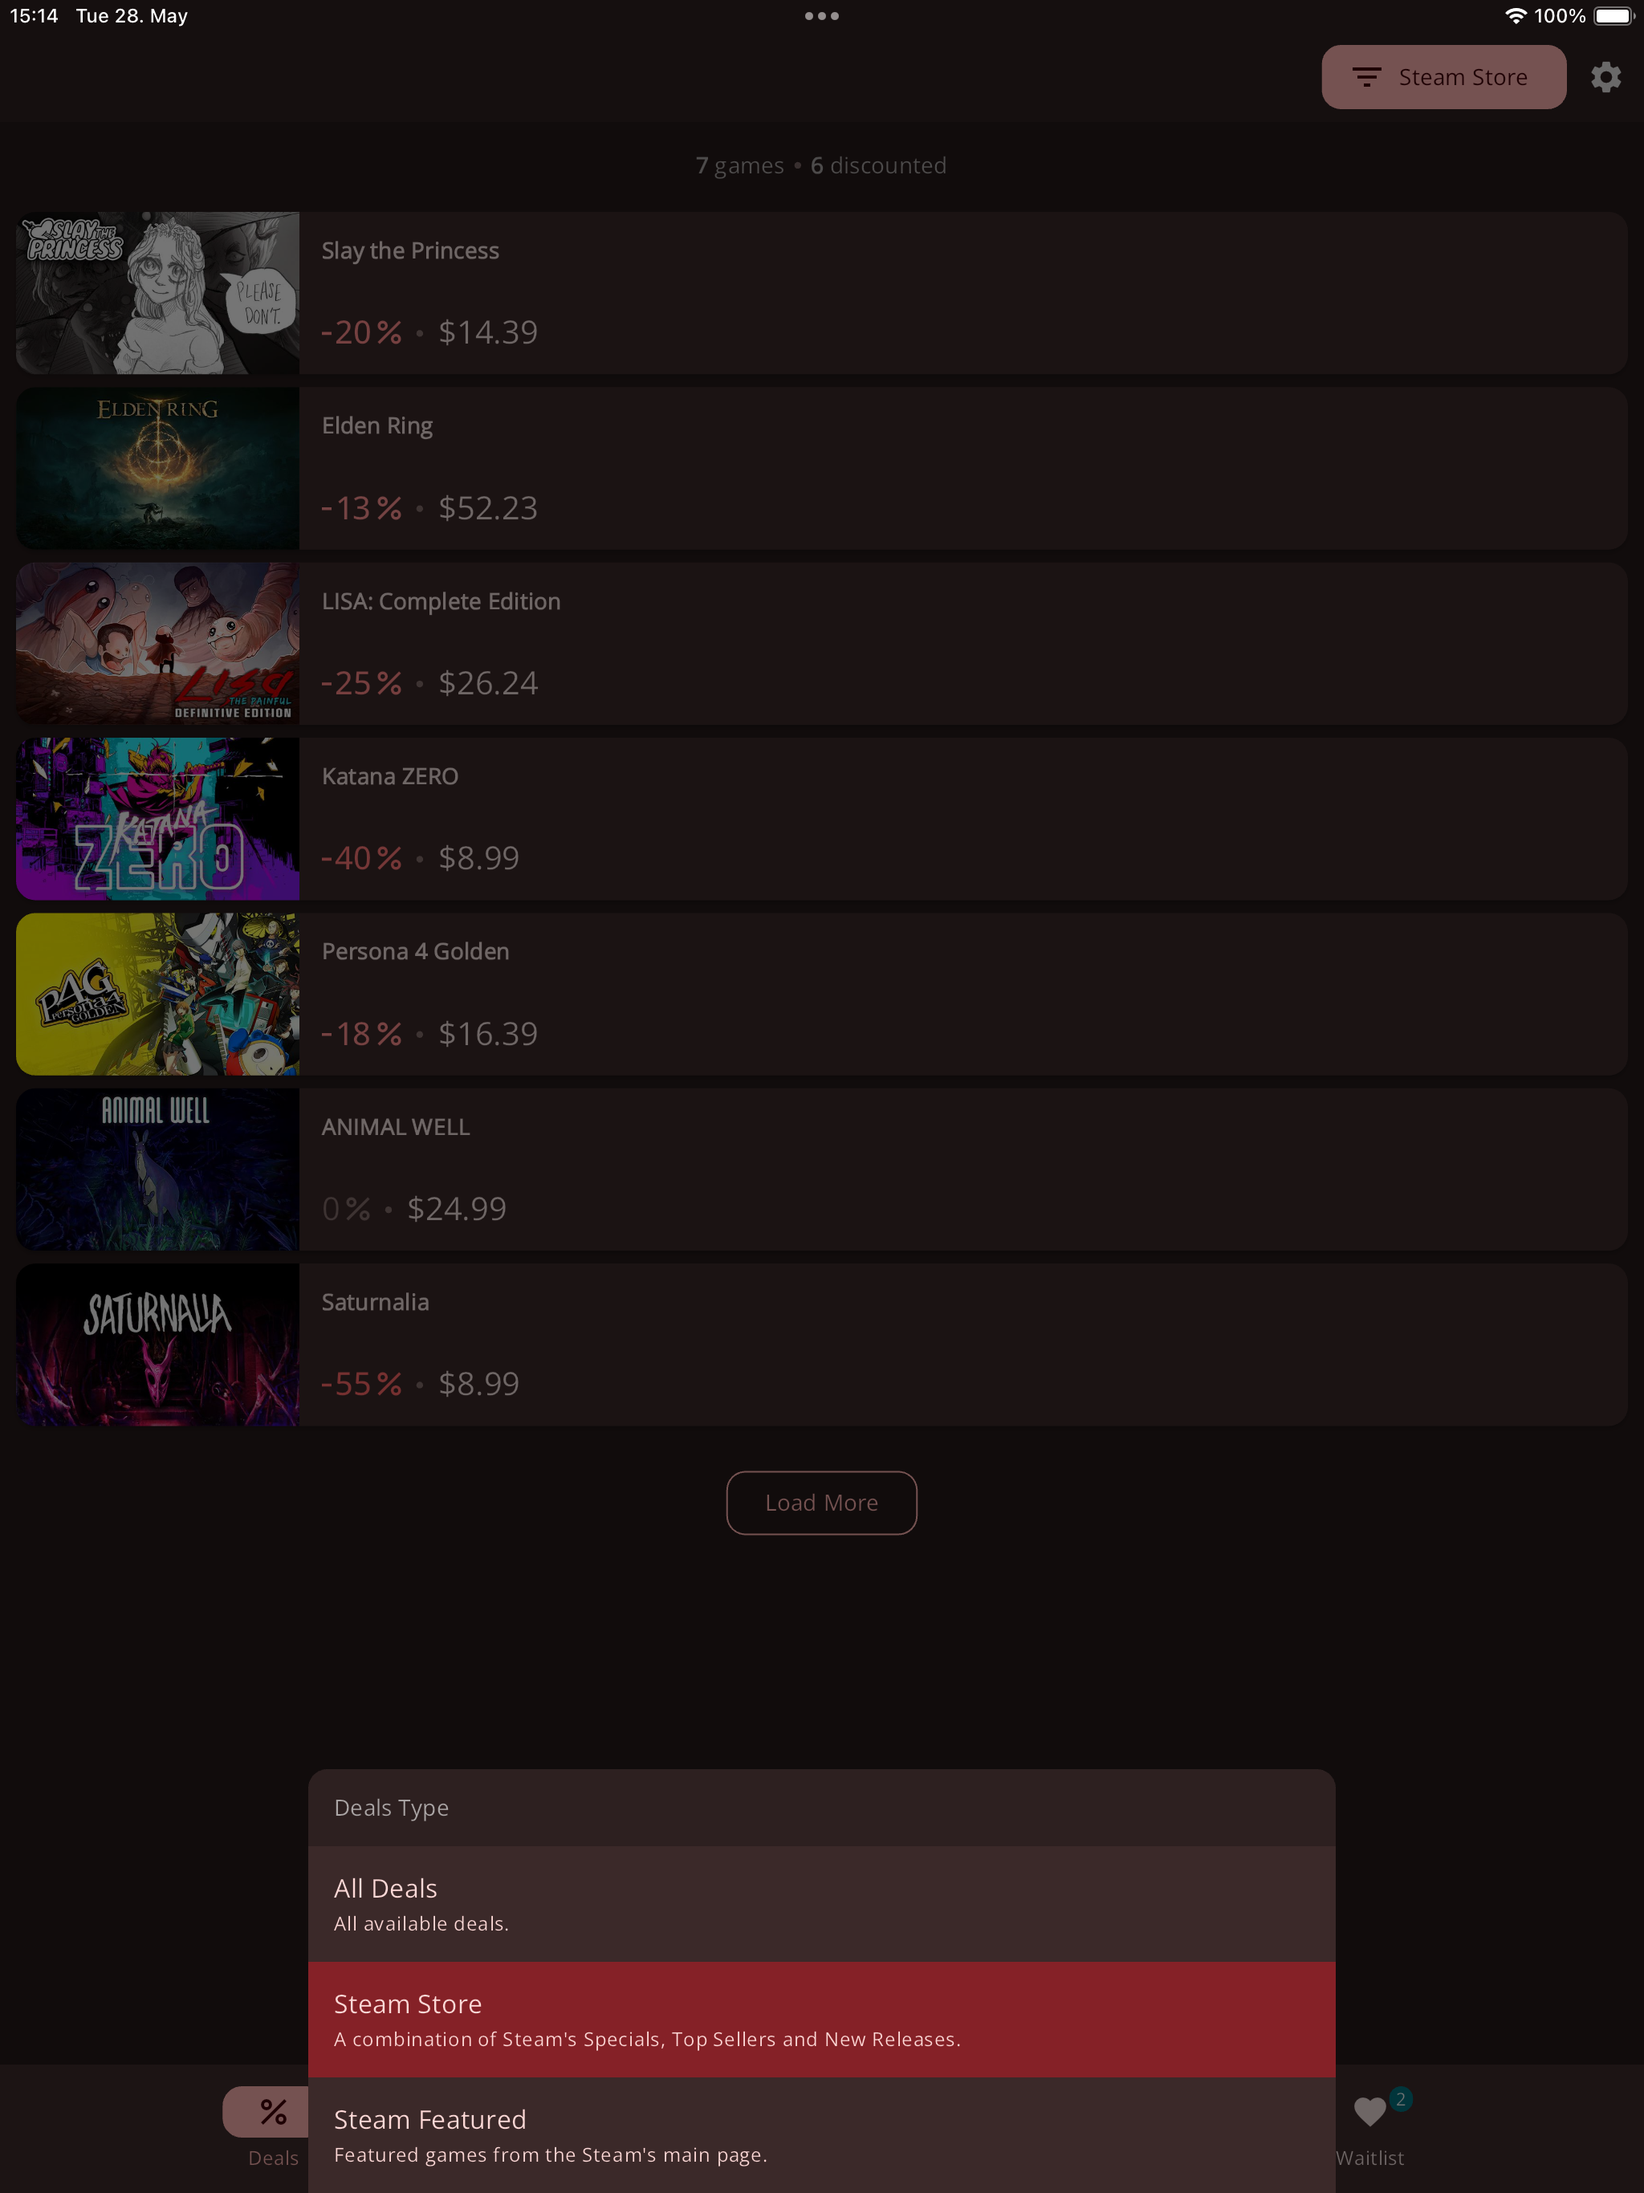
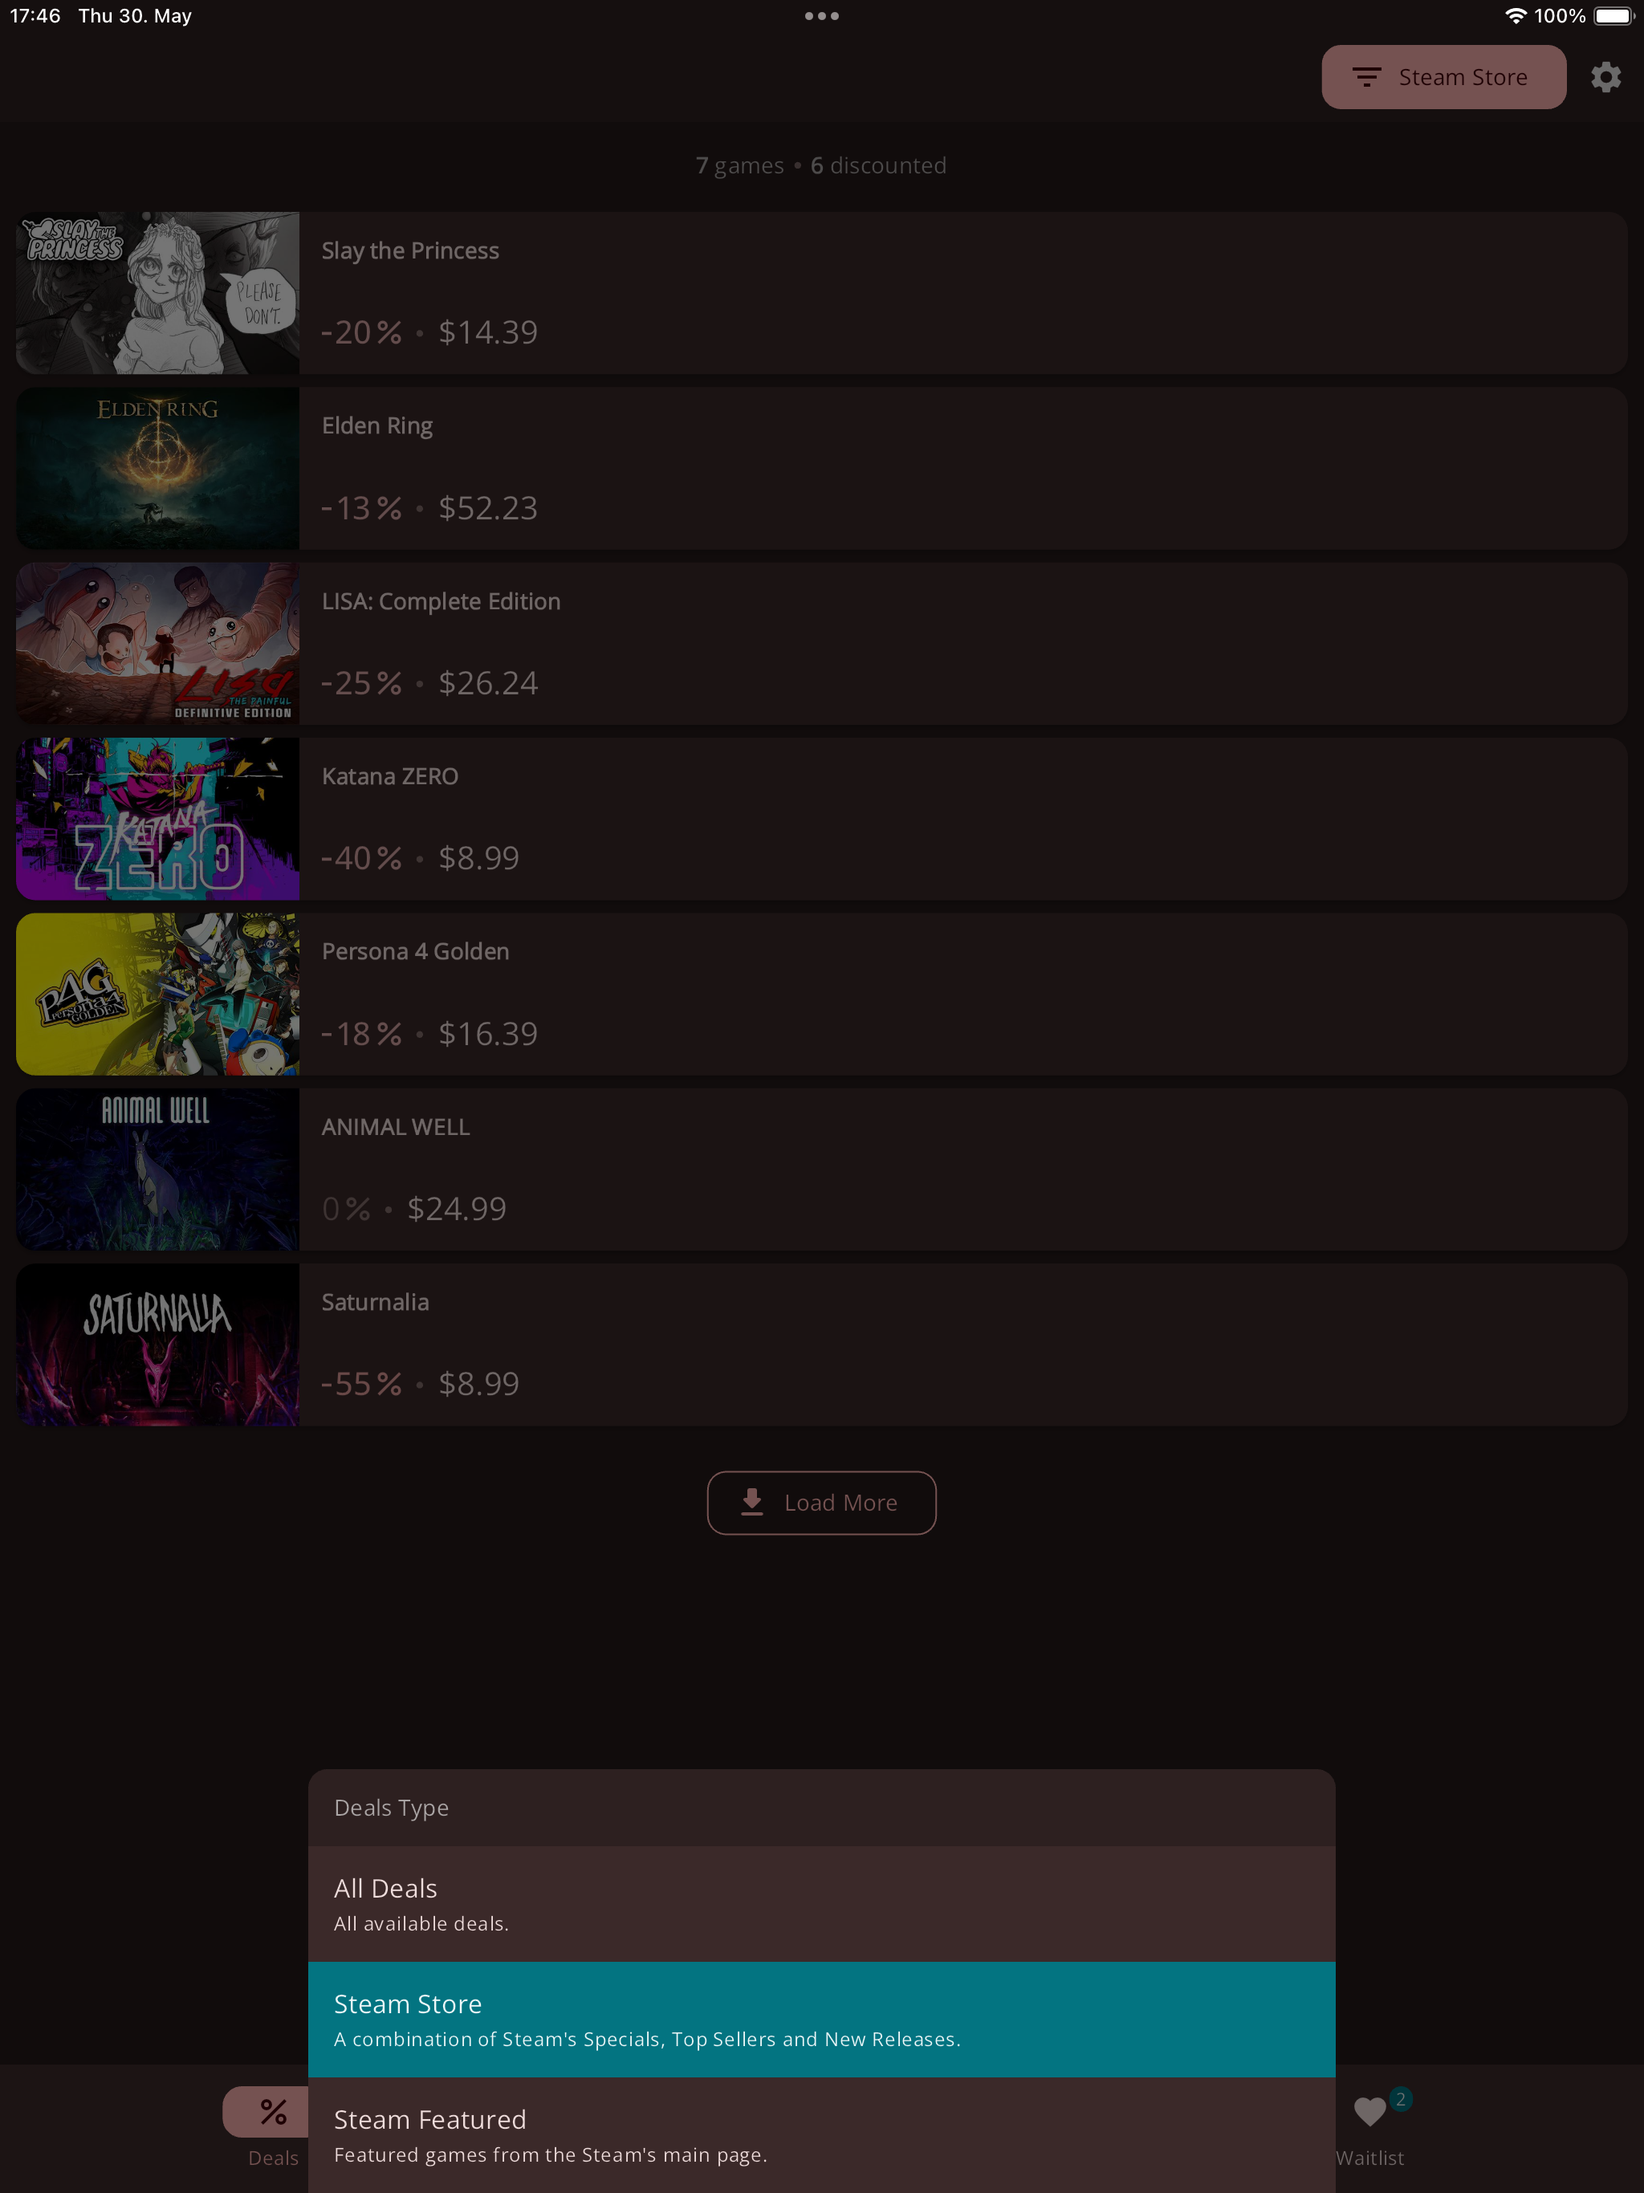
Update scheenshots

Changed region(s): [[0.1875, 0.8712, 0.8125, 0.9645], [0.0625, 0.0, 0.0938, 0.0311]]

diff --git a/test_driver/screenshot_test.dart b/test_driver/screenshot_test.dart
@@ -2,6 +2,12 @@ import 'package:emulators/emulators.dart';
 import 'package:flutter_driver/flutter_driver.dart';
 import 'package:test/test.dart';
 
+final List<String> testColorSchemes = [
+  'color_scheme_blue',
+  'color_scheme_sakura',
+  'color_scheme_gold'
+];
+
 void main() async {
   final FlutterDriver driver = await FlutterDriver.connect();
   final Emulators emulators = await Emulators.build();
@@ -26,13 +32,31 @@ void main() async {
     await screenshot.capture(identifier);
   }
 
-  test('Deals Page', () async {
+  toggleTheme(String theme) async {
+    await driver.tap(find.byTooltip('Go to Settings'));
+    await driver.waitFor(find.text('Appearance'));
+    await driver.tap(find.byValueKey('theme_togge_$theme'));
+    await driver.tap(find.pageBack());
+  }
+
+  toggleColorScheme(String scheme) async {
     await driver.tap(find.byTooltip('Go to Settings'));
     await driver.waitFor(find.text('Appearance'));
     await driver.tap(find.byValueKey('theme_togge_dark'));
-    await driver.tap(find.pageBack());
-    await driver.waitFor(find.byValueKey('deals_scroll_view'));
 
+    await driver.scrollUntilVisible(
+      find.byValueKey('color_scheme_list'),
+      find.byValueKey(scheme),
+      dxScroll: -300,
+      timeout: const Duration(minutes: 1),
+    );
+
+    await driver.tap(find.byValueKey(scheme));
+    await driver.tap(find.pageBack());
+  }
+
+  test('Deals Page', () async {
+    await toggleTheme('dark');
     await takeScreenshot('deals_page');
 
     await driver.tap(find.byValueKey('navigation_deals'));
@@ -49,7 +73,6 @@ void main() async {
 
   test('Waitlist Page', () async {
     await driver.tap(find.byValueKey('navigation_waitlist'));
-    await driver.waitFor(find.byValueKey('waitlist_scroll_view'));
 
     await takeScreenshot('waitlist_page');
 
@@ -93,32 +116,22 @@ void main() async {
   });
 
   test('Change Theme', () async {
-    final List<String> schemes = [
-      'color_scheme_blue',
-      'color_scheme_sakura',
-      'color_scheme_gold'
-    ];
+    await takeScreenshot('waitlist_page');
 
-    await driver.tap(find.byTooltip('Go to Settings'));
-    await driver.waitFor(find.text('Appearance'));
-    await driver.tap(find.byValueKey('theme_togge_light'));
-    await driver.tap(find.pageBack());
-    await driver.waitFor(find.byValueKey('waitlist_scroll_view'));
+    await toggleTheme('light');
 
     await takeScreenshot('waitlist_page_light');
 
-    for (String scheme in schemes) {
-      await driver.tap(find.byTooltip('Go to Settings'));
-      await driver.waitFor(find.text('Appearance'));
-      await driver.tap(find.byValueKey('theme_togge_dark'));
+    await driver.tap(find.byValueKey('navigation_deals'));
 
-      await driver.scrollUntilVisible(
-        find.byValueKey('color_scheme_list'),
-        find.byValueKey(scheme),
-      );
+    await takeScreenshot('deals_page_light');
 
-      await driver.tap(find.byValueKey(scheme));
-      await driver.tap(find.pageBack());
+    await driver.tap(find.byValueKey('navigation_waitlist'));
+
+    await toggleTheme('dark');
+
+    for (String scheme in testColorSchemes) {
+      await toggleColorScheme(scheme);
       await driver.waitFor(find.byValueKey('waitlist_scroll_view'));
 
       await takeScreenshot('waitlist_page_$scheme');
